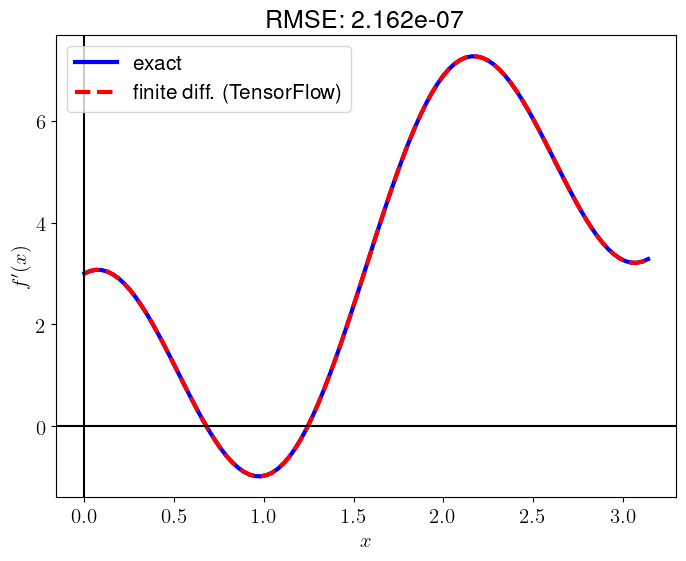
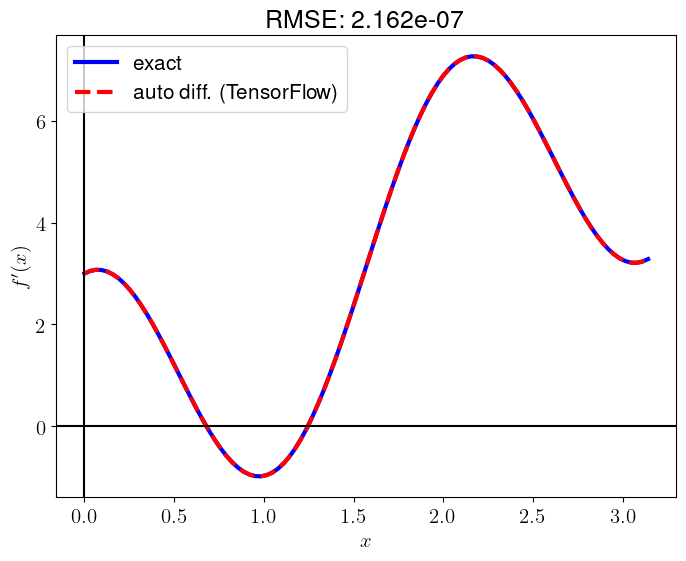
Built site for gh-pages

Changed region(s): [[0.1837, 0.1212, 0.5204, 0.1818]]

diff --git a/posts/derivative-of-1d-scalar-function/index.html b/posts/derivative-of-1d-scalar-function/index.html
@@ -597,7 +597,7 @@ right: 0.0090</code></pre>
 <span id="cb27-19"><a href="#cb27-19" aria-hidden="true" tabindex="-1"></a>x_numpy <span class="op">=</span> x.numpy()</span>
 <span id="cb27-20"><a href="#cb27-20" aria-hidden="true" tabindex="-1"></a>df_dx_exact <span class="op">=</span> exact_d_func(x_numpy)</span>
 <span id="cb27-21"><a href="#cb27-21" aria-hidden="true" tabindex="-1"></a>plt.plot(x_numpy, df_dx_exact, <span class="st">'b-'</span>, lw<span class="op">=</span><span class="dv">3</span>, label<span class="op">=</span><span class="st">"exact"</span>)</span>
-<span id="cb27-22"><a href="#cb27-22" aria-hidden="true" tabindex="-1"></a>plt.plot(x_numpy, df_dx_tf, <span class="st">'r--'</span>, lw<span class="op">=</span><span class="dv">3</span>, label<span class="op">=</span><span class="st">"finite diff. (TensorFlow)"</span>)</span>
+<span id="cb27-22"><a href="#cb27-22" aria-hidden="true" tabindex="-1"></a>plt.plot(x_numpy, df_dx_tf, <span class="st">'r--'</span>, lw<span class="op">=</span><span class="dv">3</span>, label<span class="op">=</span><span class="st">"auto diff. (TensorFlow)"</span>)</span>
 <span id="cb27-23"><a href="#cb27-23" aria-hidden="true" tabindex="-1"></a>plt.axvline(<span class="dv">0</span>, color<span class="op">=</span><span class="st">'k'</span>)</span>
 <span id="cb27-24"><a href="#cb27-24" aria-hidden="true" tabindex="-1"></a>plt.axhline(<span class="dv">0</span>, color<span class="op">=</span><span class="st">'k'</span>)</span>
 <span id="cb27-25"><a href="#cb27-25" aria-hidden="true" tabindex="-1"></a>plt.xlabel(<span class="vs">r"$x$"</span>)</span>
@@ -644,7 +644,7 @@ right: 0.0090</code></pre>
 <span id="cb30-19"><a href="#cb30-19" aria-hidden="true" tabindex="-1"></a>x_numpy <span class="op">=</span> x.detach().numpy()</span>
 <span id="cb30-20"><a href="#cb30-20" aria-hidden="true" tabindex="-1"></a>df_dx_exact <span class="op">=</span> exact_d_func(x_numpy)</span>
 <span id="cb30-21"><a href="#cb30-21" aria-hidden="true" tabindex="-1"></a>plt.plot(x_numpy, df_dx_exact, <span class="st">'b-'</span>, lw<span class="op">=</span><span class="dv">3</span>, label<span class="op">=</span><span class="st">"exact"</span>)</span>
-<span id="cb30-22"><a href="#cb30-22" aria-hidden="true" tabindex="-1"></a>plt.plot(x_numpy, df_dx_torch, <span class="st">'r--'</span>, lw<span class="op">=</span><span class="dv">3</span>, label<span class="op">=</span><span class="st">"finite diff. (PyTorch)"</span>)</span>
+<span id="cb30-22"><a href="#cb30-22" aria-hidden="true" tabindex="-1"></a>plt.plot(x_numpy, df_dx_torch, <span class="st">'r--'</span>, lw<span class="op">=</span><span class="dv">3</span>, label<span class="op">=</span><span class="st">"auto diff. (PyTorch)"</span>)</span>
 <span id="cb30-23"><a href="#cb30-23" aria-hidden="true" tabindex="-1"></a>plt.axvline(<span class="dv">0</span>, color<span class="op">=</span><span class="st">'k'</span>)</span>
 <span id="cb30-24"><a href="#cb30-24" aria-hidden="true" tabindex="-1"></a>plt.axhline(<span class="dv">0</span>, color<span class="op">=</span><span class="st">'k'</span>)</span>
 <span id="cb30-25"><a href="#cb30-25" aria-hidden="true" tabindex="-1"></a>plt.xlabel(<span class="vs">r"$x$"</span>)</span>
@@ -689,7 +689,7 @@ right: 0.0090</code></pre>
 <span id="cb33-17"><a href="#cb33-17" aria-hidden="true" tabindex="-1"></a>x_numpy <span class="op">=</span> np.array(x)</span>
 <span id="cb33-18"><a href="#cb33-18" aria-hidden="true" tabindex="-1"></a>df_dx_exact <span class="op">=</span> exact_d_func(x_numpy)</span>
 <span id="cb33-19"><a href="#cb33-19" aria-hidden="true" tabindex="-1"></a>plt.plot(x_numpy, df_dx_exact, <span class="st">'b-'</span>, lw<span class="op">=</span><span class="dv">3</span>, label<span class="op">=</span><span class="st">"exact"</span>)</span>
-<span id="cb33-20"><a href="#cb33-20" aria-hidden="true" tabindex="-1"></a>plt.plot(x_numpy, df_dx_jax, <span class="st">'r--'</span>, lw<span class="op">=</span><span class="dv">3</span>, label<span class="op">=</span><span class="st">"finite diff. (JAX)"</span>)</span>
+<span id="cb33-20"><a href="#cb33-20" aria-hidden="true" tabindex="-1"></a>plt.plot(x_numpy, df_dx_jax, <span class="st">'r--'</span>, lw<span class="op">=</span><span class="dv">3</span>, label<span class="op">=</span><span class="st">"auto diff. (JAX)"</span>)</span>
 <span id="cb33-21"><a href="#cb33-21" aria-hidden="true" tabindex="-1"></a>plt.axvline(<span class="dv">0</span>, color<span class="op">=</span><span class="st">'k'</span>)</span>
 <span id="cb33-22"><a href="#cb33-22" aria-hidden="true" tabindex="-1"></a>plt.axhline(<span class="dv">0</span>, color<span class="op">=</span><span class="st">'k'</span>)</span>
 <span id="cb33-23"><a href="#cb33-23" aria-hidden="true" tabindex="-1"></a>plt.xlabel(<span class="vs">r"$x$"</span>)</span>

diff --git a/index.html b/index.html
@@ -179,7 +179,7 @@ ul.task-list li input[type="checkbox"] {
 
 <div class="quarto-listing quarto-listing-container-default" id="listing-listing">
 <div class="list quarto-listing-default">
-<div class="quarto-post image-right" data-index="0" data-categories="math,python,english" data-listing-date-sort="1699056000000" data-listing-file-modified-sort="1699097681622" data-listing-date-modified-sort="NaN" data-listing-reading-time-sort="4">
+<div class="quarto-post image-right" data-index="0" data-categories="math,python,english" data-listing-date-sort="1699056000000" data-listing-file-modified-sort="1699098005721" data-listing-date-modified-sort="NaN" data-listing-reading-time-sort="4">
 <div class="thumbnail">
 <p><a href="./posts/derivative-of-1d-scalar-function/index.html"> <p class="card-img-top"><img src="posts/derivative-of-1d-scalar-function/index_files/figure-html/cell-3-output-1.png"  class="thumbnail-image card-img"/></p> </a></p>
 </div>
